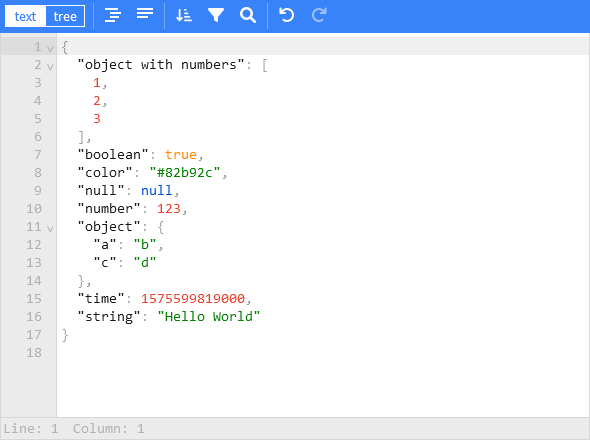
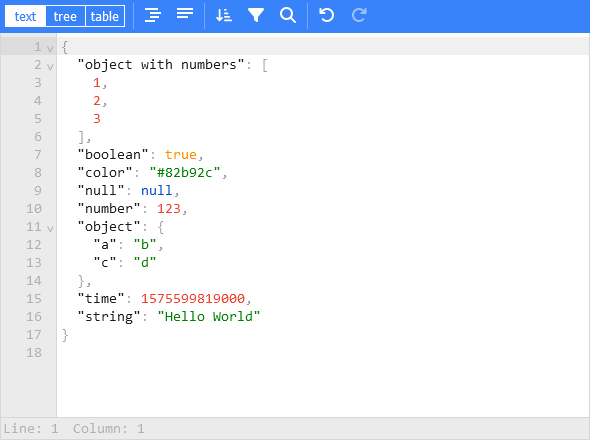
docs: update readme and screenshots about table mode

Changed region(s): [[0.122, 0.0, 0.6102, 0.0591], [0.6102, 0.0, 0.6407, 0.0295]]

diff --git a/README.md b/README.md
@@ -8,11 +8,12 @@ The library is written with Svelte, but can be used in plain JavaScript too and 
 
 ![JSONEditor tree mode screenshot](https://raw.githubusercontent.com/josdejong/svelte-jsoneditor/main/misc/jsoneditor_tree_mode_screenshot.png)
 ![JSONEditor text mode screenshot](https://raw.githubusercontent.com/josdejong/svelte-jsoneditor/main/misc/jsoneditor_text_mode_screenshot.png)
+![JSONEditor table mode screenshot](https://raw.githubusercontent.com/josdejong/svelte-jsoneditor/main/misc/jsoneditor_table_mode_screenshot.png)
 
 ## Features
 
 - View and edit JSON
-- Has a low level text mode and high level tree mode
+- Has a low level text mode and high level tree and table modes
 - Format (beautify) and compact JSON
 - Sort, query, filter, and transform JSON
 - Repair JSON
@@ -188,7 +189,7 @@ const editor = new JSONEditor({
 ### properties
 
 - `content: Content` Pass the JSON contents to be rendered in the JSONEditor. `Content` is an object containing a property `json` (a parsed JSON document) or `text` (a stringified JSON document). Only one of the two properties must be defined. You can pass both content types to the editor independent of in what mode it is.
-- `mode: 'tree' | 'text'`. Open the editor in `'tree'` mode (default) or `'text'` mode (formerly: `code` mode).
+- `mode: 'tree' | 'text' | 'table'`. Open the editor in `'tree'` mode (default), `'table'` mode, or `'text'` mode (formerly: `code` mode).
 - `mainMenuBar: boolean` Show the main menu bar. Default value is `true`.
 - `navigationBar: boolean` Show the navigation bar with, where you can see the selected path and navigate through your document from there. Default value is `true`.
 - `statusBar: boolean` Show a status bar at the bottom of the `'text'` editor, showing information about the cursor location and selected contents. Default value is `true`.
@@ -197,6 +198,7 @@ const editor = new JSONEditor({
 - `tabSize: number` When indentation is configured as a tab character (`indentation: '\t'`), `tabSize` configures how large a tab character is rendered. Default value is `4`. Only applicable to `text` mode.
 - `escapeControlCharacters: boolean`. False by default. When `true`, control characters like newline and tab are rendered as escaped characters `\n` and `\t`. Only applicable for `'tree'` mode, in `'text'` mode control characters are always escaped.
 - `escapeUnicodeCharacters: boolean`. False by default. When `true`, unicode characters like ☎ and 😀 are rendered escaped like `\u260e` and `\ud83d\ude00`.
+- `flattenColumns: boolean`. True by default. Only applicable to `'table'` mode. When `true`, nested object properties will be displayed each in their own column, with the nested path as column name. When `false`, nested objects will be rendered inline, and double-clicking them will open them in a popup.
 - `validator: function (json: JSONValue): ValidationError[]`. Validate the JSON document.
   For example use the built-in JSON Schema validator powered by Ajv:
 
@@ -231,7 +233,7 @@ const editor = new JSONEditor({
   Callback fired when an error occurs. Default implementation is to log an error in the console and show a simple alert message to the user.
 - `onChange(content: Content, previousContent: Content, changeStatus: { contentErrors: ContentErrors, patchResult: JSONPatchResult | null })`. The callback which is invoked on every change of the contents, both changes made by a user and programmatic changes made via methods like `.set()`, `.update()`, or `.patch()`.
   The returned `content` is sometimes of type `{ json }`, and sometimes of type `{ text }`. Which of the two is returned depends on the mode of the editor, the change that is applied, and the state of the document (valid, invalid, empty). Please be aware that `{ text }` can contain invalid JSON: whilst typing in `text` mode, a JSON document will be temporarily invalid, like when the user is typing a new string. The parameter `patchResult` is only returned on changes that can be represented as a JSON Patch document, and for example not when freely typing in `text` mode.
-- `onChangeMode(mode: 'tree' | 'text')`. Invoked when the mode is changed.
+- `onChangeMode(mode: 'tree' | 'text' | 'table')`. Invoked when the mode is changed.
 - `onClassName(path: Path, value: any): string | undefined`.
   Add a custom class name to specific nodes, based on their path and/or value.
 - `onRenderValue(props: RenderValueProps) : RenderValueComponentDescription[]`
@@ -251,7 +253,7 @@ const editor = new JSONEditor({
   }
   ```
 
-- `onRenderMenu(mode: 'tree' | 'text', items: MenuItem[]) : MenuItem[] | undefined`.
+- `onRenderMenu(mode: 'tree' | 'text' | 'table', items: MenuItem[]) : MenuItem[] | undefined`.
   Callback which can be used to make changes to the menu items. New items can
   be added, or existing items can be removed or reorganized. When the function
   returns `undefined`, the original `items` will be applied.
@@ -626,7 +628,7 @@ Install dependencies (once):
 npm install
 ```
 
-Start the demo project (at http://localhost:3000):
+Start the demo project (at http://localhost:5173):
 
 ```
 npm run dev
@@ -664,4 +666,6 @@ npm run release
 
 ## License
 
-Released under the [ISC license](LICENSE.md).
+`svelte-jsoneditor` is released as open source under the permissive the [ISC license](LICENSE.md).
+
+**If you are using `svelte-jsoneditor` commercially, there is a _social_ (but no legal) expectation that you help fund its maintenance. [Start here](https://github.com/sponsors/josdejong).**
